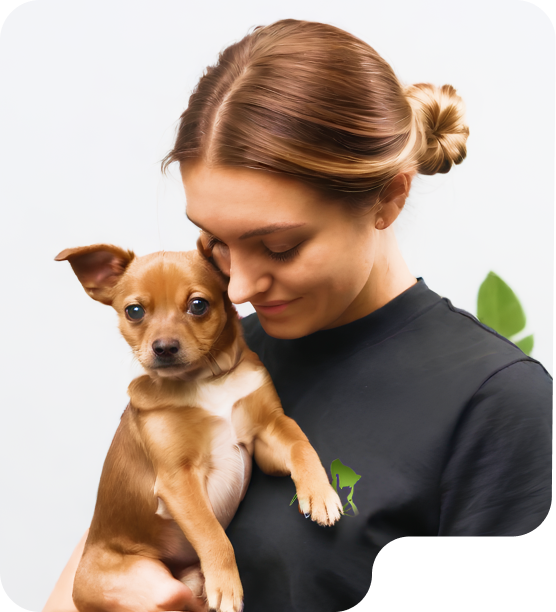
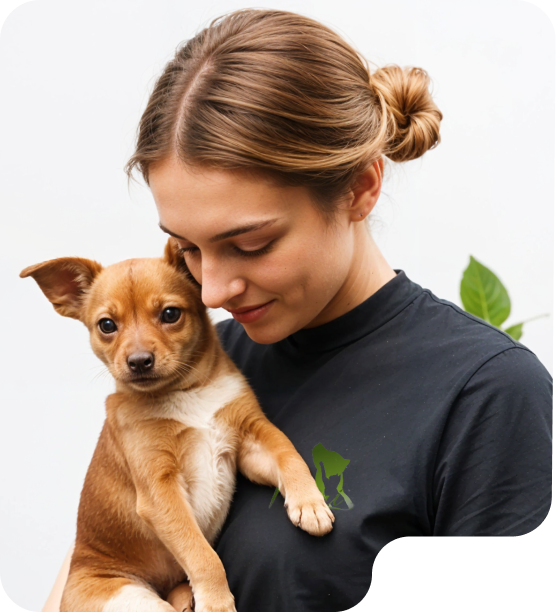
optimaze imges

diff --git a/src/app/page.tsx b/src/app/page.tsx
@@ -14,7 +14,7 @@ import {MasterSection} from "@/components/MastersSection/MasterSection";
 import {SalesPromotionsSection} from "@/components/SalesPromotionsSection/SalesPromotionsSection";
 import {ServicesSection} from "@/components/ServicesSection/ServicesSection";
 import siteLogo from '/public/assets/images/logo.png'
-import headerMainPhoto from '/public/assets/images/main_banner_photo.png'
+import headerMainPhoto from '/public/assets/images/main_banner_photo.webp'
 import catImg from '/public/assets/images/cat.png'
 import dogImg from '/public/assets/images/dog.png'
 import {NAV_LINKS_SECTIONS_IDS} from "@/data/headerNavLinks";
